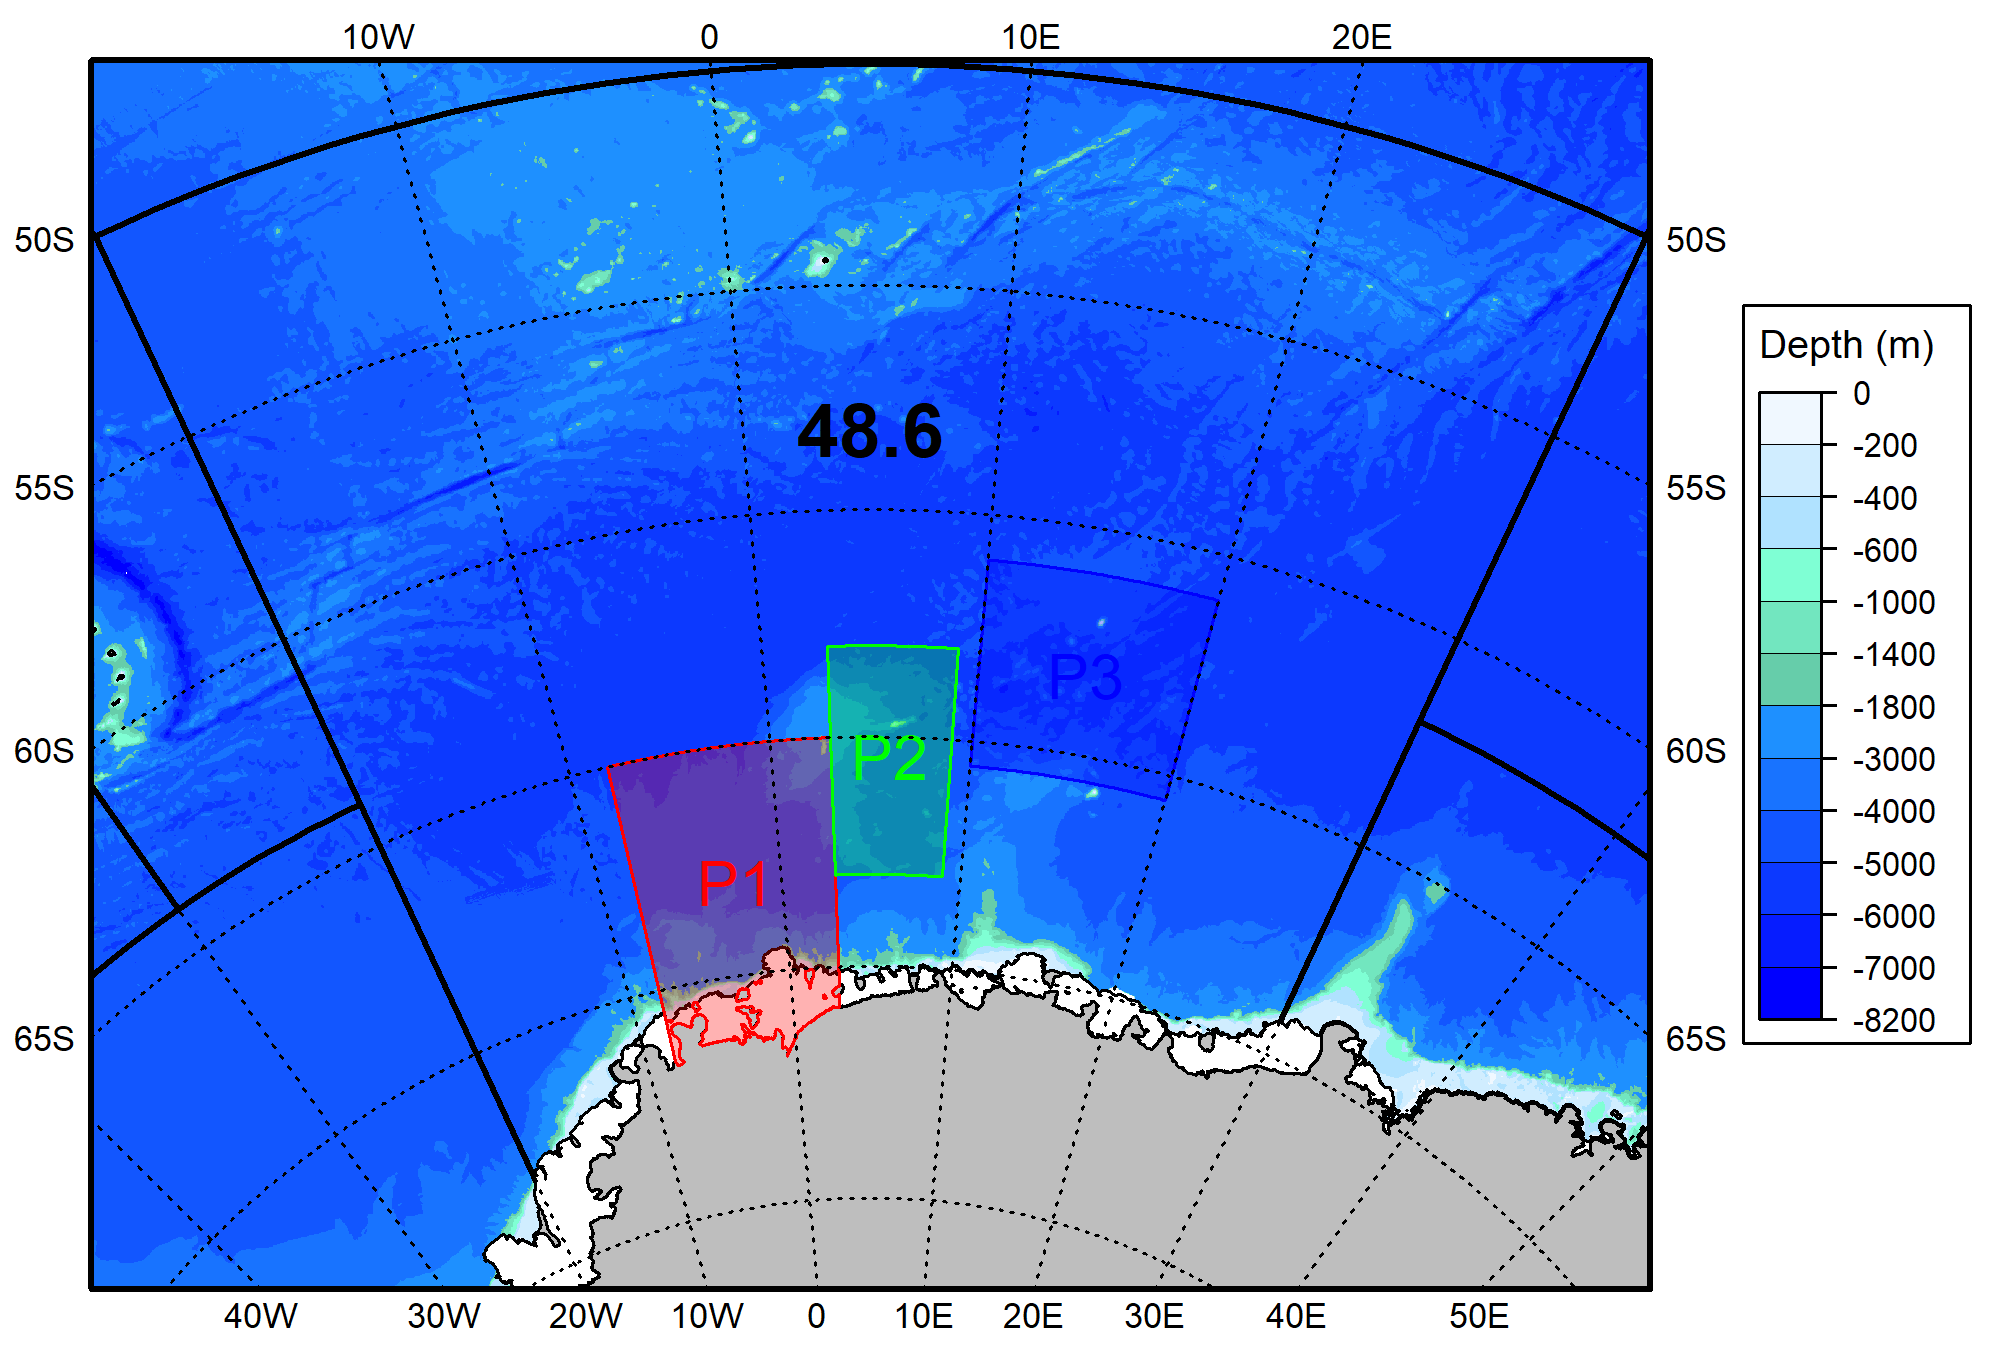
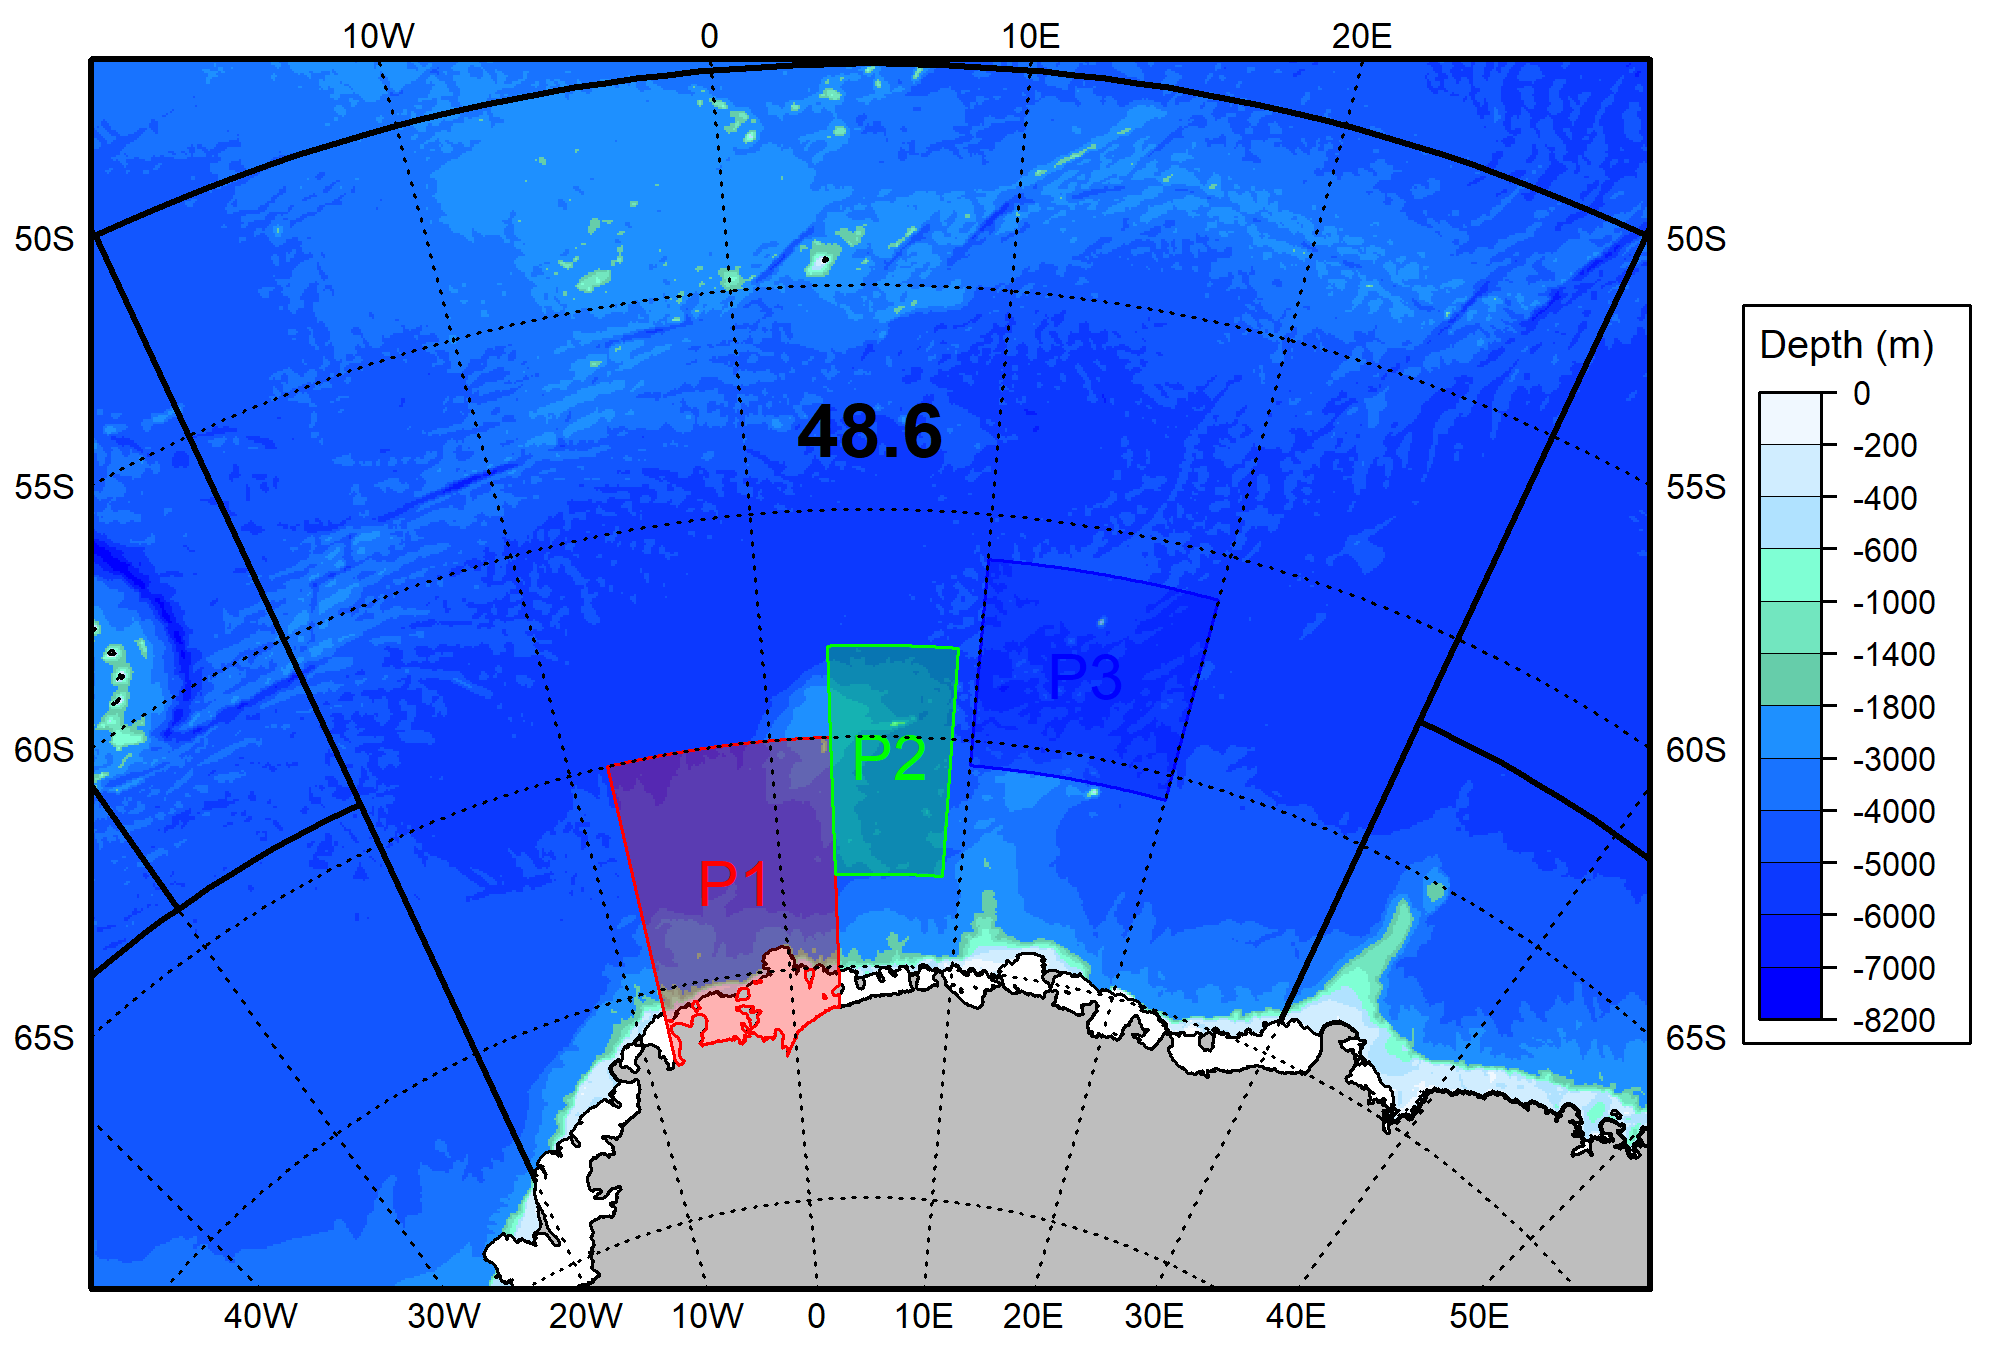
Changed coastlines URLs

diff --git a/README.md b/README.md
@@ -85,8 +85,7 @@ More specifically, four datasets are used. These are:
 - High resolution vector polygons of the Antarctic coastline
   - Source: British Antarctic Survey / UK Polar Data Centre
   - Short description: Coastline and ice shelves south of 60S
-  - URL:
-    <https://data.bas.ac.uk/full-record.php?id=GB/NERC/BAS/PDC/01787>
+  - URL: <https://doi.org/10.5285/c7fe759d-e042-479a-9ecf-274255b4f0a1>
   - Citation: Gerrish, L., Ireland, L., Fretwell, P., & Cooper, P.
     (2023). High resolution vector polygons of the Antarctic coastline -
     VERSION 7.8 (Version 7.8) (Data set). NERC EDS UK Polar Data Centre.
@@ -95,8 +94,7 @@ More specifically, four datasets are used. These are:
   - Source: British Antarctic Survey / UK Polar Data Centre
   - Short description: Coastline between 50S and 60S (from which the
     data between 50W and 20W is extracted)
-  - URL:
-    <https://data.bas.ac.uk/full-record.php?id=GB/NERC/BAS/PDC/01430>
+  - URL: <https://doi.org/10.5285/c1d83502-8799-4e3c-bdca-21db6a4405d4>
   - Citation: Gerrish, L. (2020). Vector polygons of the Sub-Antarctic
     coastline - VERSION 7.3 (Version 1.0) (Data set). UK Polar Data
     Centre, Natural Environment Research Council, UK Research &
@@ -518,7 +516,7 @@ library(CCAMLRGIS)
 library(terra)
 library(png)
 #Download bathymetry:
-Bathy=load_Bathy(LocalFile=F,Res=1000) #Once downloaded, re-use it. See help(load_Bathy)
+Bathy=load_Bathy(LocalFile=F,Res=5000) #Once downloaded, re-use it. See help(load_Bathy) for details
 # Bathy=SmallBathy() #Use this instead for testing purposes first
 
 #Load Coastline
